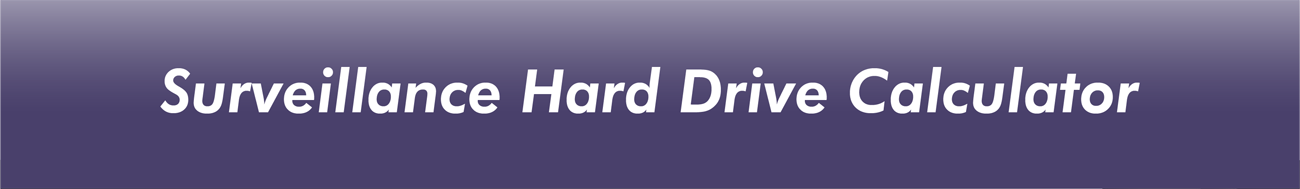
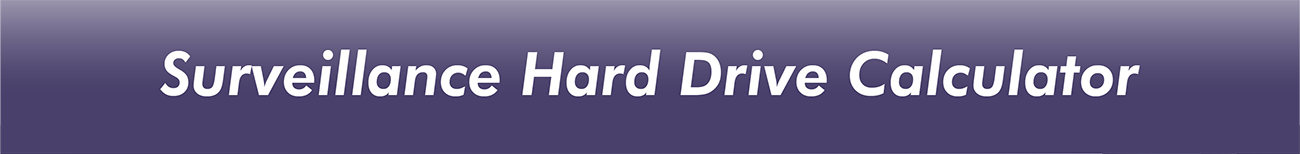
Updated header

diff --git a/components/Calculator.js b/components/Calculator.js
@@ -95,7 +95,7 @@ export default function Calculator() {
     return(
         <>
         <div className="w-full flex flex-row justify-center border-0">
-            <Image src='/images/header.png' width={900} height={130}/>
+            <Image src='/images/header.png' width={900} height={105}/>
         </div>
         
         <div className="flex flex-row justify-center ">
